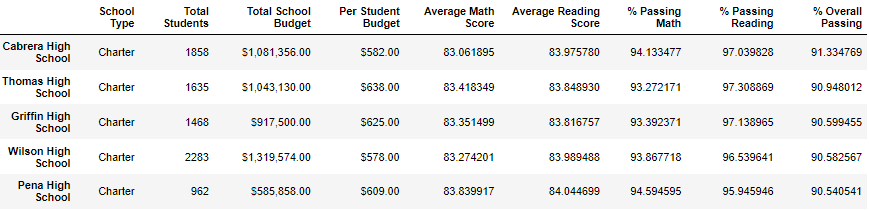
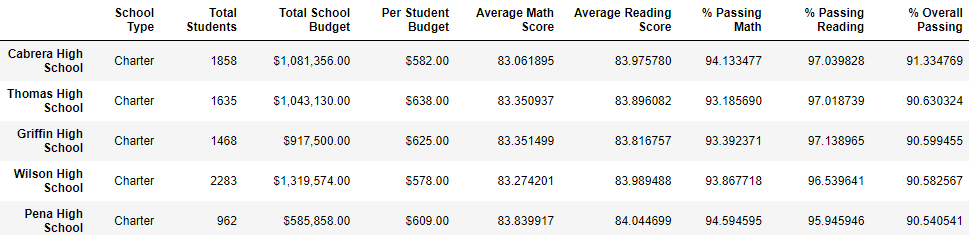
Adding Resources & README edits

diff --git a/README.md b/README.md
@@ -1,6 +1,6 @@
 # Test Score Audit using Pandas and Jupyter Notebook
 ## Overview
-Assist Maria with analyzing standardized test data from a number of schools within a certain district. Since one school is under scrutiny for tampering with scores from a particular grade level, it was my task to omit that grade’s test scores from the overall calculations and recalculate the statistics without those students’ grades.
+Assist Maria with analyzing standardized test data from a number of schools within a certain district. Since one school is under scrutiny for tampering with scores from a particular grade level, it was my task to null that grade’s test scores from the overall calculations and recalculate the statistics without those students’ grades.
 
 ## Results
 ### District Summary
@@ -8,9 +8,8 @@ After making edits to the Thomas High School (THS) data, I observed the followin
 ##### *Original Analysis*
 ![original_DistrictDF.png](/Resources/original_DistrictDF.png)
 ##### *Edited Analysis*
-![edited_DistrictDF.png](/Resources/edited_DistrictDF
-.png)
-With the exception of the **Average Reading Score**, all other averages and percentages showed a decrease in the updated summary statistics. 
+![edited_DistrictDF.png](/Resources/edited_DistrictDF.png)
+- With the exception of the **Average Reading Score**, all other averages and percentages showed a decrease in the updated summary statistics. 
 
 ### Effects of changing the THS Data within the School Summary
 #### *Original Analysis*
@@ -25,16 +24,32 @@ With the exception of the **Average Reading Score**, all other averages and perc
 ##### *Edited Analysis*
 ![edited_Top5DF.png](/Resources/edited_Top5DF.png)
 
-### Replacement of 9th Grade Test Scores How does replacing the ninth-grade scores affect the following:
-- The editing of the 9th-grade test data affects the math & reading scores by grade by…
+### Replacement of 9th Grade Test Scores 
+- The editing of the 9th-grade test data affected the math & reading scores by grade by giving a null value for the 9th graders at THS. Their scores were not used in the overall statistic calculations.
 - Scores by school spending
+#### *Original Analysis* 
+![original_ScoresbySpending.png](/Resources/original_ScoresbySpending.png)
+#### *Edited Analysis*
+![edited_ScoresbySpending.png](/Resources/edited_ScoresbySpending.png)
 - Scores by school size
+#### *Original Analysis* 
+![original_ScoresbySize.png](/Resources/original_ScoresbySize.png)
+#### *Edited Analysis*
+![edited_ScoresbySize.png](/Resources/edited_ScoresbySize.png)
 - Scores by school type
+#### *Original Analysis* 
+![original_ScoresbyType.png](/Resources/original_ScoresbyType.png)
+#### *Edited Analysis*
+![edited_ScoresbyType.png](/Resources/edited_ScoresbyType.png)
   - Sub bullet
+
+
+
 
 ## Summary
 Summarize four changes in the updated school district analysis after reading and math scores for the ninth grade at Thomas High School have been replaced with NaNs
-The total student count for the district remains unchanged by the exclusion of the 9th-grade student grades. I *did* omit them on the “Per School” level calculations relating to averages and percentages, but doing away with the data points themselves would have heavily skewed the “Per Student Budget” that should remain unchanged by this audit. 
-Since THS is a charter school with a relatively low student population
+The total student count for the district remains unchanged by the exclusion of the 9th-grade student grades. I *did* skip over them on the “Per School” level calculations relating to averages and percentages ( and removed the count of those omitted students from those calculations), but doing away with the data points themselves would have heavily skewed the “Per Student Budget” that should remain unchanged by this audit. 
+Since THS is a charter school with a relatively low student population, they still rank 
 - 3
 - 4
+
